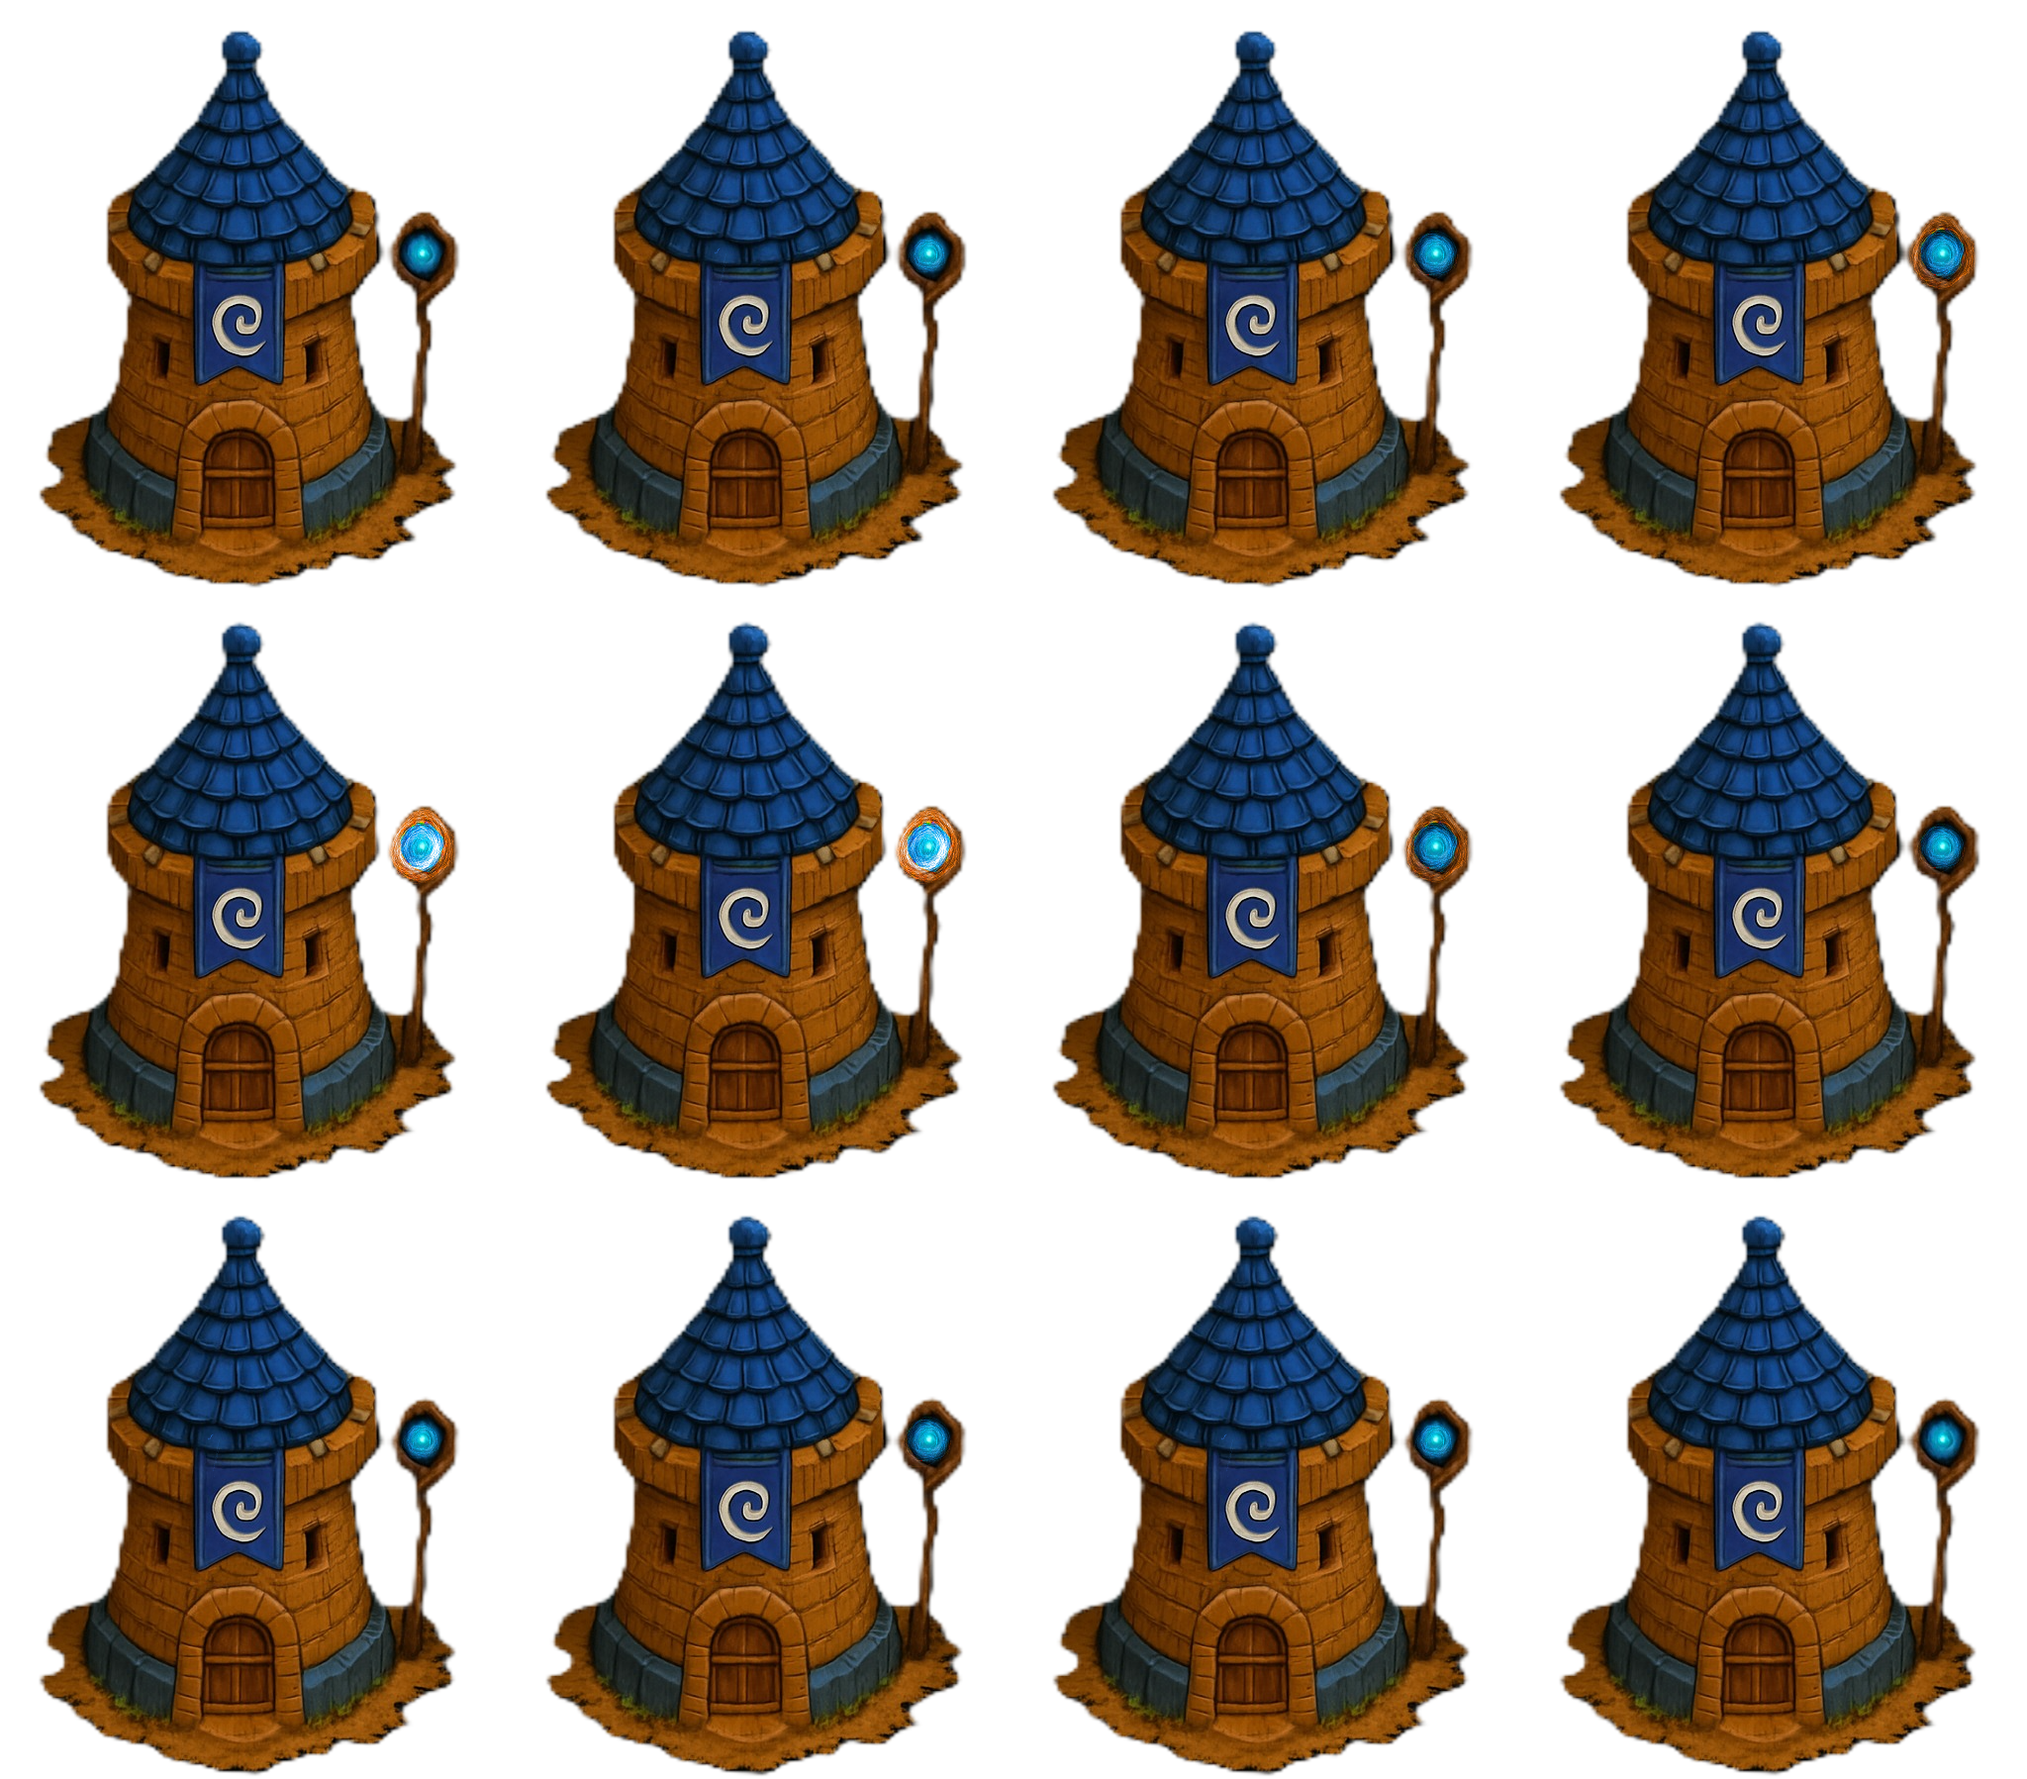
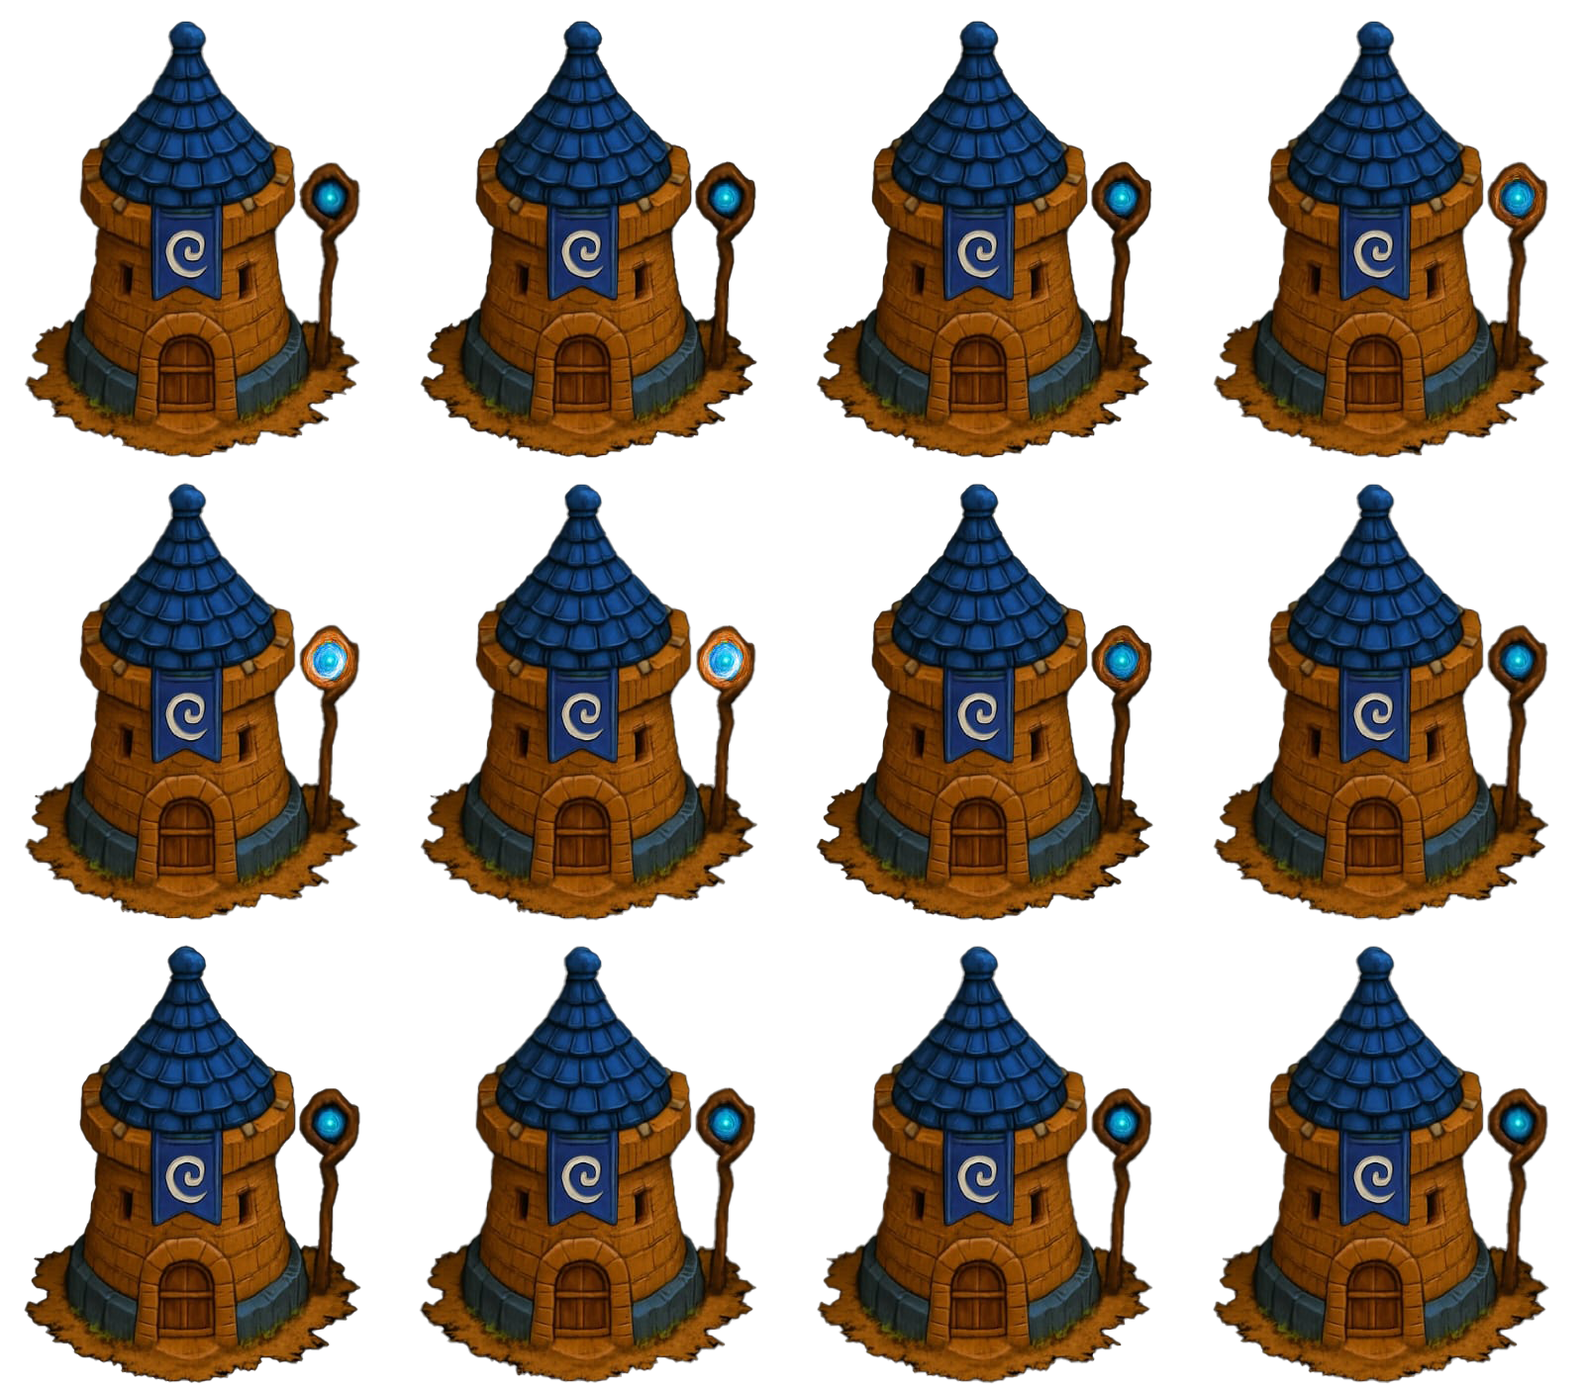
Working - Its necessery to put somethings of the sprite on constructor

diff --git a/src/sprite.cpp b/src/sprite.cpp
@@ -11,30 +11,24 @@ namespace Game
 		  frameWidth(0), frameHeight(0), columns(0), rows(0),
 		  currentFrame(0)
 	{
-		sourceRect = {0, 0, 0, 0};
+		this->sourceRect = {0, 0, 0, 0};
 	}
 
 	Sprite::~Sprite()
 	{
-		if (texture)
+		if (this->texture)
 		{
-			SDL_DestroyTexture(texture);
-			texture = nullptr;
+			SDL_DestroyTexture(this->texture);
+			this->texture = nullptr;
 		}
 	}
 
 	bool Sprite::loadFromFile(const std::string &path, SDL_Renderer *renderer)
 	{
-		if (!renderer)
+		if (this->texture)
 		{
-			std::cerr << "Renderer is null in Sprite::loadFromFile" << std::endl;
-			return false;
-		}
-
-		if (texture)
-		{
-			SDL_DestroyTexture(texture);
-			texture = nullptr;
+			SDL_DestroyTexture(this->texture);
+			this->texture = nullptr;
 		}
 
 		SDL_Surface *surface = IMG_Load(path.c_str());
@@ -48,18 +42,17 @@ namespace Game
 		{
 			SDL_SetSurfaceBlendMode(surface, SDL_BLENDMODE_BLEND);
 		}
-
-		texture = SDL_CreateTextureFromSurface(renderer, surface);
-		if (!texture)
+		this->texture = SDL_CreateTextureFromSurface(renderer, surface);
+		if (!this->texture)
 		{
 			std::cerr << "Failed to create texture from surface: " << SDL_GetError() << std::endl;
 			SDL_FreeSurface(surface);
 			return false;
 		}
-		SDL_SetTextureBlendMode(texture, SDL_BLENDMODE_BLEND);
+		SDL_SetTextureBlendMode(this->texture, SDL_BLENDMODE_BLEND);
 
-		size.x = surface->w;
-		size.y = surface->h;
+		this->size.x = surface->w;
+		this->size.y = surface->h;
 
 		SDL_FreeSurface(surface);
 
@@ -69,7 +62,7 @@ namespace Game
 	bool Sprite::loadSpriteSheet(const std::string &filepath, SDL_Renderer *renderer,
 								 int frameWidth, int frameHeight, int columns, int rows)
 	{
-		if (loadFromFile(filepath, renderer))
+		if (this->loadFromFile(filepath, renderer))
 		{
 			this->frameWidth = frameWidth;
 			this->frameHeight = frameHeight;
@@ -77,7 +70,7 @@ namespace Game
 			this->rows = rows;
 			this->currentFrame = 0;
 
-			setFrame(0);
+			this->setFrame(0);
 			return true;
 		}
 		return false;
@@ -86,29 +79,29 @@ namespace Game
 	void Sprite::setFrame(int frameIndex)
 	{
 
-		int totalFrames = columns * rows;
+		int totalFrames = this->columns * this->rows;
 		if (frameIndex < 0 || frameIndex >= totalFrames)
 			return;
 
-		currentFrame = frameIndex;
+		this->currentFrame = frameIndex;
 
-		int col = frameIndex % columns;
-		int row = frameIndex / columns;
+		int col = frameIndex % this->columns;
+		int row = frameIndex / this->columns;
 
-		setSourceRect(col * frameWidth, row * frameHeight, frameWidth, frameHeight);
+		this->setSourceRect(col * this->frameWidth, row * this->frameHeight, this->frameWidth, this->frameHeight);
 	}
 
 	void Sprite::setFrame(int column, int row)
 	{
-		if (column < 0 || column >= columns || row < 0 || row >= this->rows)
+		if (column < 0 || column >= this->columns || row < 0 || row >= this->rows)
 			return;
 
-		int frameIndex = row * columns + column;
-		setFrame(frameIndex);
+		int frameIndex = row * this->columns + column;
+		this->setFrame(frameIndex);
 	}
 	void Sprite::render(Graphics &graphics) const
 	{
-		if (!texture)
+		if (!this->texture)
 			return;
 
 		int tileWidth = graphics.getTileWidth();
@@ -116,10 +109,10 @@ namespace Game
 
 		Vector finalSize;
 
-		finalSize.x = static_cast<float>(frameWidth) * scale.x;
-		finalSize.y = static_cast<float>(frameHeight) * scale.y;
+		finalSize.x = static_cast<float>(this->frameWidth) * this->scale.x;
+		finalSize.y = static_cast<float>(this->frameHeight) * this->scale.y;
 
-		Vector finalPosition = position - origin;
+		Vector finalPosition = this->position - this->origin;
 
 		finalPosition.x = finalPosition.x * tileWidth + (tileWidth - finalSize.x) / 2.0f;
 		finalPosition.y = finalPosition.y * tileHeight + (tileHeight - finalSize.y) / 2.0f;
@@ -129,25 +122,18 @@ namespace Game
 			static_cast<int>(finalPosition.y),
 			static_cast<int>(finalSize.x),
 			static_cast<int>(finalSize.y)};
-
 		SDL_RendererFlip flipFlags = SDL_FLIP_NONE;
-		if (flippedX)
+		if (this->flippedX)
 			flipFlags = static_cast<SDL_RendererFlip>(flipFlags | SDL_FLIP_HORIZONTAL);
-		if (flippedY)
+		if (this->flippedY)
 			flipFlags = static_cast<SDL_RendererFlip>(flipFlags | SDL_FLIP_VERTICAL);
 
-		SDL_SetTextureColorMod(texture, color.r, color.g, color.b);
-		SDL_SetTextureAlphaMod(texture, color.a);
+		SDL_SetTextureColorMod(this->texture, this->color.r, this->color.g, this->color.b);
+		SDL_SetTextureAlphaMod(this->texture, this->color.a);
 
-		if (useSourceRect)
-		{
-			SDL_RenderCopyEx(graphics.getRenderer(), texture, &sourceRect, &destRect,
-							 rotation, nullptr, flipFlags);
-		}
+		if (this->useSourceRect)
+			SDL_RenderCopyEx(graphics.getRenderer(), this->texture, &this->sourceRect, &destRect, this->rotation, nullptr, flipFlags);
 		else
-		{
-			SDL_RenderCopyEx(graphics.getRenderer(), texture, nullptr, &destRect,
-							 rotation, nullptr, flipFlags);
-		}
+			SDL_RenderCopyEx(graphics.getRenderer(), this->texture, nullptr, &destRect, this->rotation, nullptr, flipFlags);
 	}
 }

diff --git a/src/game_world.cpp b/src/game_world.cpp
@@ -172,7 +172,7 @@ namespace Game
 					auto towerSprite = std::make_unique<Sprite>();
 
 					if (towerSprite->loadSpriteSheet("assets/magic-tower.png", renderer,
-													 512, 599, 4, 3))
+													 400, 467, 4, 3))
 					{
 						towerSprite->setFrame(0);
 						towerSprite->setScale(0.2f, 0.2f);

diff --git a/src/game_control.cpp b/src/game_control.cpp
@@ -116,6 +116,7 @@ namespace Game
 		auto path = map.extractPath();
 
 		std::vector<Enemy> enemyTypes;
+		enemyTypes.reserve(3);
 
 		enemyTypes.emplace_back(100, 20, 5.0f, "Fireball", path);
 		enemyTypes.emplace_back(150, 30, 0.8f, "Ice Spike", path);
